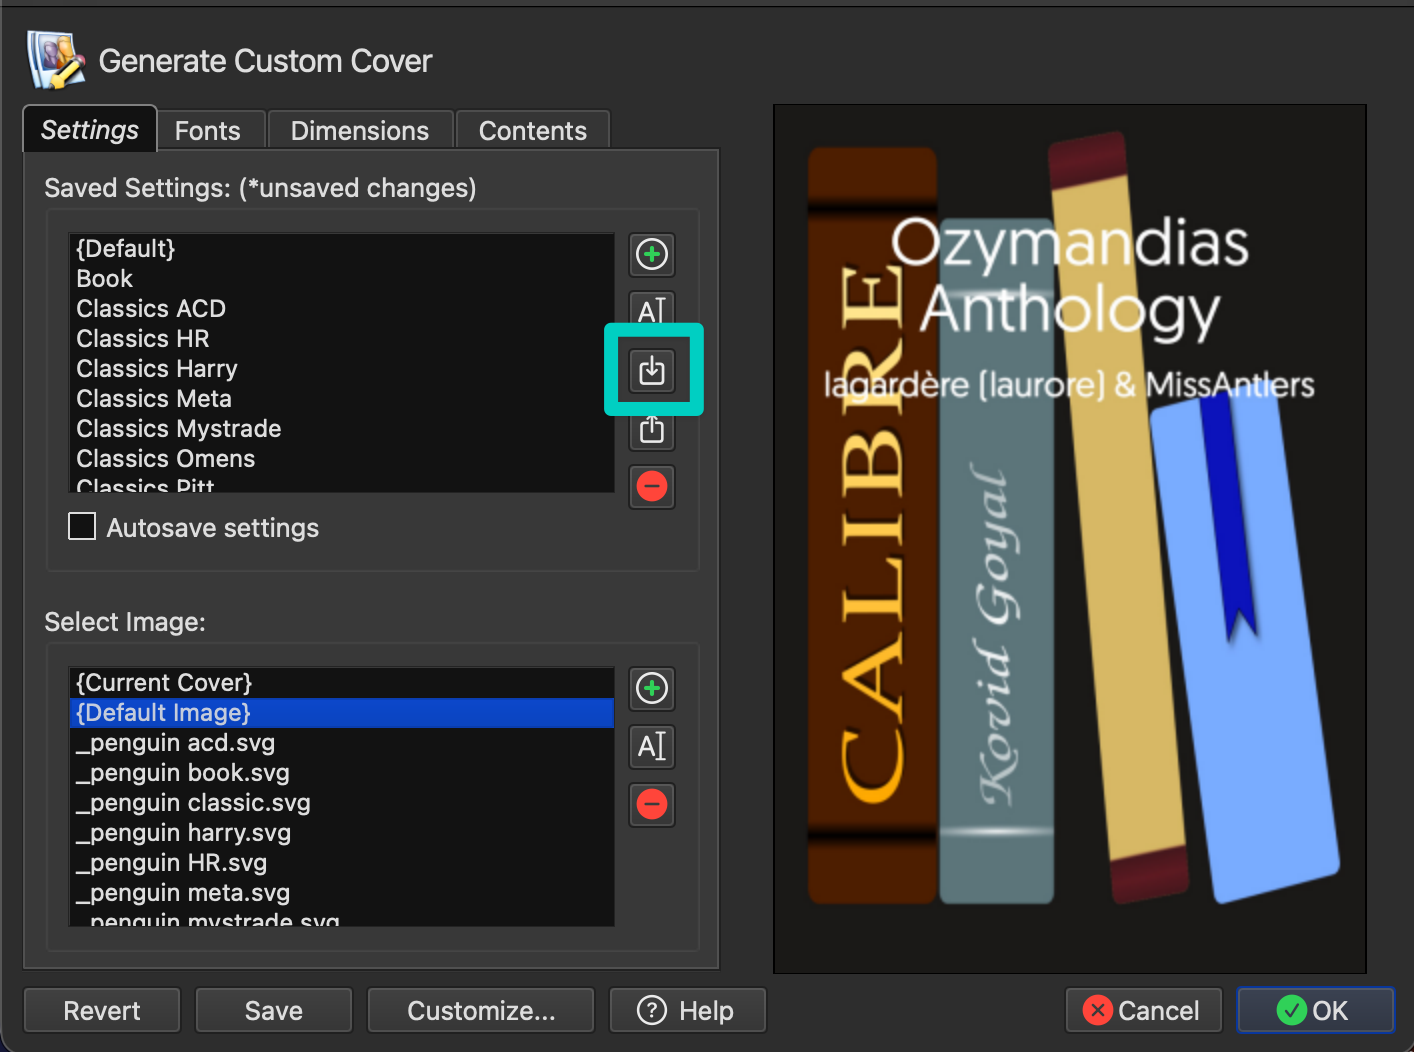
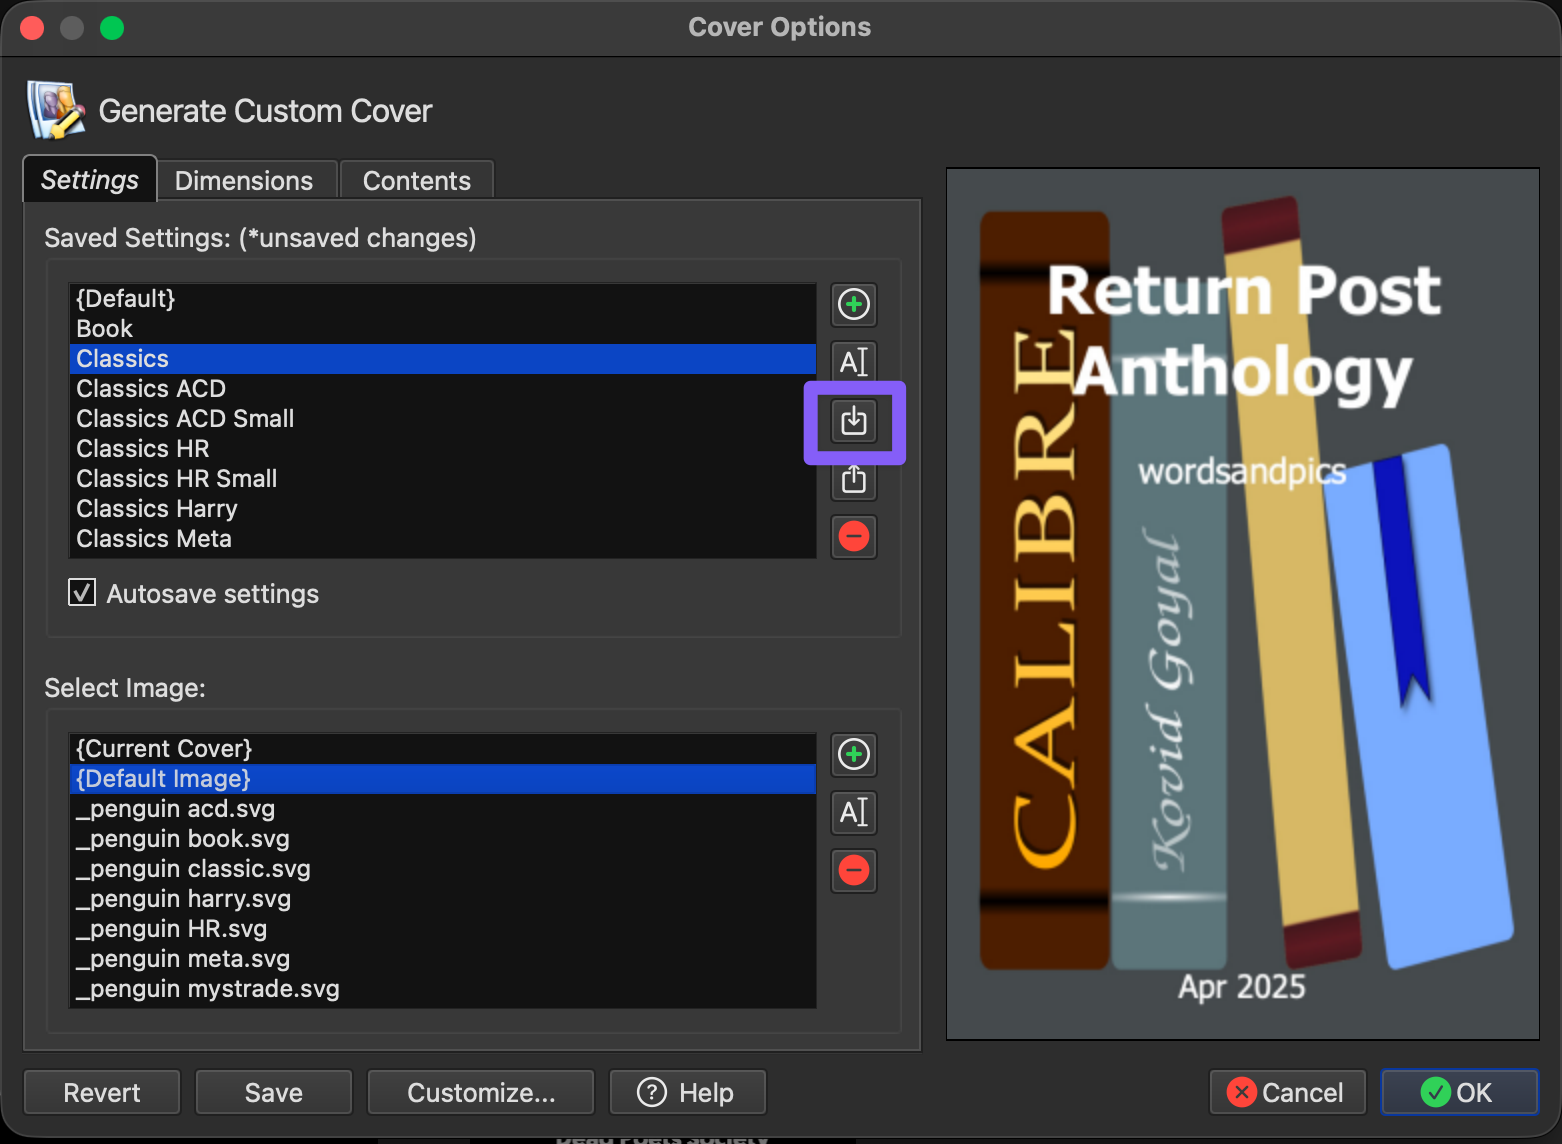
Update Generate Cover preset and tutorial

diff --git a/start/generate-covers.md b/start/generate-covers.md
@@ -22,24 +22,29 @@ You now have FanFicFare metadata in Calibre columns. This step puts a few of tho
 1. Select a fic with values in the columns you made in Step 3, then open **Generate Cover** from Calibre's toolbar.
 2. Select the preset you want to change.
 3. Open the **Contents** tab.
-4. Find **Custom text**. This is where every example on this page goes.
+4. In **Field Order**, select **Custom Text 1**, **Custom Text 2**, or **Custom Text 3**. Each has its own text and presentation settings.
 
-The starter preset uses `{pubdate}` in this box. You can replace it, keep it on another line, or combine it with saved metadata.
+The starter preset uses `{pubdate}` in **Custom Text 1**. You can replace it or put the examples below in any of the three custom text fields. Select a field to set its font, alignment, style, colour, spacing, and optional backdrop. Shared font and colour options can apply those choices to all text.
 
-![Generate Cover custom columns in cover text]({{ '/assets/img/gcc-custom-columns.png' | relative_url }})
+![Generate Cover showing Custom Text 2 with its own presentation controls and metadata]({{ '/assets/img/gcc-custom-columns.png' | relative_url }})
 
 ## Put saved values on a cover
 
 The names inside braces are Calibre lookup names. Replace `{pubdate}` with a simple layout such as:
 
+#### Custom Field 1:
+
 ```
 {#ship}
+```
+#### Custom Field 2:
+```
 {#words} · {#status}
 ```
 
-Each line becomes a separate line on the cover. For a fic whose relationship is `Sherlock Holmes/John Watson`, word count is `34,291`, and status is `Completed`, the result would be those names on the first line and `34,291 · Completed` on the second. The middle dot is ordinary visible text, so you can remove it, change the order, or use a different separator. This first version may be long; the next recipes create shorter cover-ready values.
+Each custom field becomes a separate line on the cover. For a fic whose relationship is `Sherlock Holmes/John Watson`, word count is `34,291`, and status is `Completed`, the result would be those names on the first line and `34,291 · Completed` on the second. The middle dot is ordinary visible text, so you can remove it, change the order, or use a different separator.  Take a look at the advanced settings for tips on how to make the values shorter or more readable.
 
-Return to **Settings** and click **Save** so the edited Custom text becomes part of the preset. Saving a preset changes the design; it does not replace covers that were already generated.
+Click **Save** so the edited text becomes part of the preset. Saving a preset changes the design; it does not replace covers that were already generated.
 
 ## Generate a cover manually
 

diff --git a/basic-covers.md b/basic-covers.md
@@ -79,8 +79,9 @@ Download a public AO3 fic and check its cover in Calibre's book details panel. I
 
 You can use the starter design without changing these settings. When you are ready to customise it:
 
-- **Fonts:** The [Fonts tab]({{ '/assets/img/gcc-fonts.png' | relative_url }}) sets the typeface and colour. The starter uses white Tahoma text and one font family throughout.
 - **Dimensions:** The [Dimensions tab]({{ '/assets/img/gcc-dimensions.png' | relative_url }}) sets the cover size to 750 × 1100 pixels. You do not need to change it for this guide.
-- **Contents:** The [Contents tab]({{ '/assets/img/gcc-contents.png' | relative_url }}) displays title, author, series when present, and custom text. The starter's custom text is `{pubdate}`, the publication date. [Step 4]({{ '/start/generate-covers/' | relative_url }}) shows how to replace or add to it.
+- **Contents:** The [Contents tab]({{ '/assets/img/gcc-contents.png' | relative_url }}) controls text appearance and content. You can choose standard fields: Title, author, series, and you can put custom data in 3 different fields that can be styled independently.
+  - **Font and text colour:** Select a field to adjust its font, size, alignment, style, colour, and spacing. You can also add a coloured background behind the text. The starter uses Tahoma, with a bold title and italic series name. [See the title controls]({{ '/assets/img/gcc-fonts.png' | relative_url }}).
+  - **Data:** Choose which fields appear and what each custom text field says. The starter puts `{pubdate}` (the publication date) in **Custom Text 1**. [Step 4]({{ '/start/generate-covers/' | relative_url }}) shows how to use Custom Text 1, 2, and 3.
 
 Save the preset after any change; an already-generated cover will not update until you generate it again.

diff --git a/reference/changelog.md b/reference/changelog.md
@@ -7,6 +7,10 @@ previous: {label: "Downloads", url: "/reference/downloads/", section: "Reference
 next: {label: "Contact", url: "/contact/", section: "Reference"}
 ---
 
+## 12 November 2026
+
+- Updated the starter preset, walkthrough, and screenshots for the latest official Generate Cover settings, including three independently styled custom text fields.
+
 ## 11 October 2026
 
 - Redesigned navigation and added a simple overview of how covers are made.
